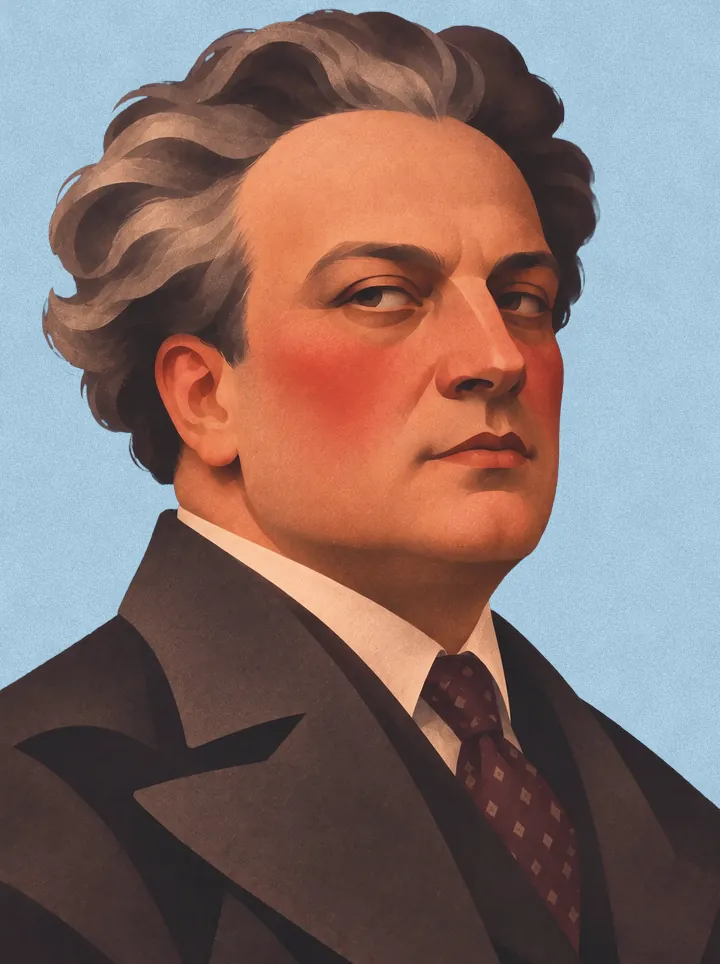
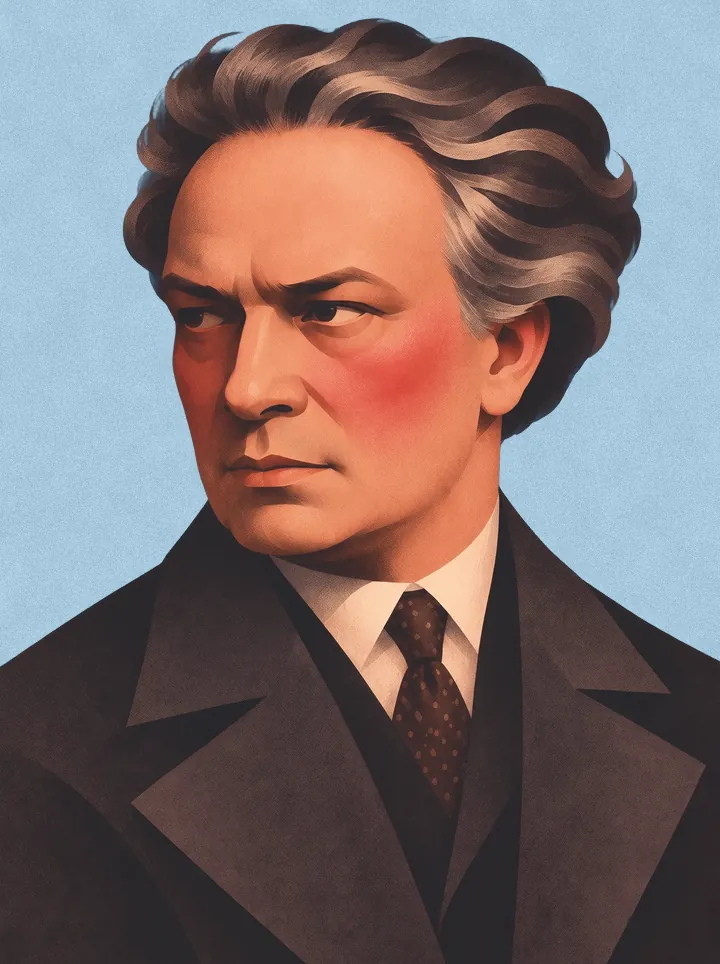
Composer portraits: Schubert, Liszt, Leoncavallo, Chaminade, Flégier and Bridge added, new Respighi and Wolf, from the user's CHANGE.fig
Claude-Session: https://claude.ai/code/session_01J9nR1BmP9TjDnKqecdbpyd

diff --git a/src/standalone/composers.ts b/src/standalone/composers.ts
@@ -26,11 +26,13 @@ const ALT: Record<string, [string, string]> = {
   bizet: ["Bizet", "Georges Bizet with dark curly hair, a full beard and round spectacles, in a dark coat, on olive green."],
   bononcini: ["Bononcini", "Portrait of Giovanni Bononcini."],
   brahms: ["Brahms", "Johannes Brahms with swept-back hair and a long grey-brown beard, in a dark coat and bow, on deep red."],
+  bridge: ["Bridge", "Portrait of Frank Bridge."],
   butterworth: ["Butterworth", "Portrait of George Butterworth."],
   caccini: ["Caccini", "Portrait of Giulio Caccini."],
   caldara: ["Caldara", "Portrait of Antonio Caldara."],
   carissimi: ["Carissimi", "Portrait of Giacomo Carissimi."],
   cesti: ["Cesti", "Portrait of Antonio Cesti."],
+  chaminade: ["Chaminade", "Portrait of Cécile Chaminade."],
   chausson: ["Chausson", "Portrait of Ernest Chausson."],
   claraschumann: ["Clara Schumann", "Portrait of Clara Schumann."],
   debussy: ["Debussy", "Portrait of Claude Debussy."],
@@ -43,6 +45,7 @@ const ALT: Record<string, [string, string]> = {
   dvorak: ["Dvořák", "Portrait of Antonín Dvořák."],
   falla: ["Falla", "Portrait of Manuel de Falla."],
   faure: ["Fauré", "Gabriel Fauré with wavy grey hair and a grey moustache, in a dark coat and black tie, on purple."],
+  flegier: ["Flégier", "Portrait of Ange Flégier."],
   gasparini: ["Gasparini", "Portrait of Francesco Gasparini."],
   giordani: ["Giordani", "Portrait of Tommaso Giordani."],
   gluck: ["Gluck", "Portrait of Christoph Willibald Gluck."],
@@ -54,6 +57,8 @@ const ALT: Record<string, [string, string]> = {
   haydn: ["Haydn", "Portrait of Joseph Haydn."],
   ives: ["Ives", "Portrait of Charles Ives."],
   legrenzi: ["Legrenzi", "Portrait of Giovanni Legrenzi."],
+  leoncavallo: ["Leoncavallo", "Portrait of Ruggero Leoncavallo."],
+  liszt: ["Liszt", "Portrait of Franz Liszt."],
   lotti: ["Lotti", "Portrait of Antonio Lotti."],
   mahler: ["Mahler", "Portrait of Gustav Mahler."],
   marcello: ["Marcello", "Portrait of Benedetto Marcello."],
@@ -75,6 +80,7 @@ const ALT: Record<string, [string, string]> = {
   rossini: ["Rossini", "Gioachino Rossini with dark curls and sideburns, a white cravat and a deep red coat, on olive green."],
   rstrauss: ["Strauss", "Richard Strauss with receding wavy hair and a moustache, in a dark coat and high white collar, on dark teal."],
   scarlatti: ["Scarlatti", "Portrait of Alessandro Scarlatti."],
+  schubert: ["Schubert", "Portrait of Franz Schubert."],
   schumann: ["Schumann", "Portrait of Robert Schumann."],
   somervell: ["Somervell", "Portrait of Arthur Somervell."],
   stradella: ["Stradella", "Portrait of Alessandro Stradella."],

diff --git a/scripts/art/composers2.py b/scripts/art/composers2.py
@@ -1,4 +1,4 @@
-"""The composer portraits from the user's later Figma files (composers_1_1, composers_2, composers_3): each frame named
+"""The composer portraits from the user's later Figma files (composers_1_1, composers_2, composers_3, CHANGE): each frame named
 after its composer, a 1792 x 2400 portrait and a 1000 x 1000 face, holding the cut-out exactly as placed. Each is drawn
 over its own pale backdrop with the same tone and paper grain as composers.py, at the app's two sizes.
 
@@ -33,9 +33,12 @@ NAMES = {
  'Christoph Willibald Gluck': ('gluck', 'Gluck'), 'Henri Duparc': ('duparc', 'Duparc'), 'Maurice Ravel': ('ravel', 'Ravel'),
  'Manuel de Falla': ('falla', 'Falla'), 'Enrique Granados': ('granados', 'Granados'), 'Antonín Dvořák': ('dvorak', 'Dvořák'),
  'Edvard Grieg': ('grieg', 'Grieg'), 'Sergei Rachmaninoff': ('rachmaninoff', 'Rachmaninoff'), 'Charles Ives': ('ives', 'Ives'),
+ 'Schubert': ('schubert', 'Schubert'), 'Liszt': ('liszt', 'Liszt'), 'Leoncavallo': ('leoncavallo', 'Leoncavallo'),
+ 'Chaminade': ('chaminade', 'Chaminade'), 'Ange Flégier': ('flegier', 'Flégier'), 'Frank Bridge': ('bridge', 'Bridge'),
 }
 FULL = {'Mahler': 'Gustav Mahler', 'Mozart': 'Wolfgang Amadeus Mozart', 'Verdi': 'Giuseppe Verdi', 'Monteverdi': 'Claudio Monteverdi',
-        'ntonio Lotti': 'Antonio Lotti', 'alessandro Parisotti': 'Alessandro Parisotti'}
+        'ntonio Lotti': 'Antonio Lotti', 'alessandro Parisotti': 'Alessandro Parisotti',
+        'Schubert': 'Franz Schubert', 'Liszt': 'Franz Liszt', 'Leoncavallo': 'Ruggero Leoncavallo', 'Chaminade': 'Cécile Chaminade'}
 # pale backdrops, each composer his own, in turn (the ones the first portraits had are kept)
 PALE = ['#a9c4e0', '#e8b4b8', '#b9d3a8', '#e6c27a', '#c4b0dc', '#9fcfc0', '#e0a98c', '#b4bfe0', '#d6c08a', '#a6d0cf',
         '#d8b4d4', '#c2d2a4', '#e9c99a', '#8fc1bd', '#e3b38f', '#b3c7e8', '#c9b48a', '#d9a3a0', '#a7c9dd', '#c7c49a']
@@ -66,7 +69,7 @@ os.makedirs(OUT, exist_ok=True)
 done = {}
 k = 0
 # the later files win over the earlier ones; mozart.fig's frames kept the name of the page they were copied from
-FILES = [('composers_1_1', None), ('composers_2', None), ('composers_3', None), ('mozart_new', 'Mozart')]
+FILES = [('composers_1_1', None), ('composers_2', None), ('composers_3', None), ('mozart_new', 'Mozart'), ('change', None)]
 for f, rename in FILES:
     fig = f'{FIGS}/{f}'
     if not os.path.exists(f'{fig}/nodes.json'): continue
